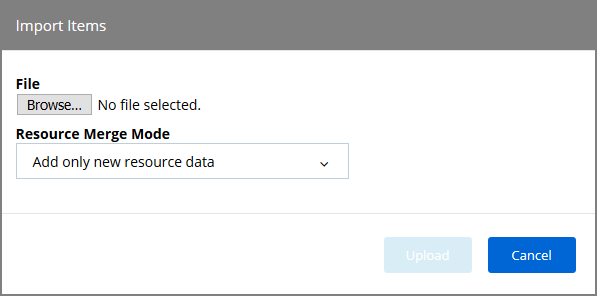
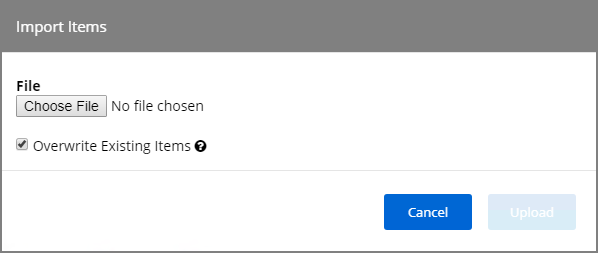
#147122: updated the image for the import items modal (overwrite checkbox) and adjusted instructions accordingly

diff --git a/how-to/export-import.md b/how-to/export-import.md
@@ -96,15 +96,14 @@ To import items via file upload follow these steps:
    ![Upload Item File link](images/import/link.png)
 1. The __Import Items__ dialog opens, browse to your file location and select the file containing the data to import.
 
-   ![Import Items dialog box](images/import/modal.png) <!-- TODO: new screen once drop-down options are corrected -->
+   ![Import Items dialog box](images/import/modal.png) 
 
    Supported file types for the import are .xslt, .xbl, .xsl, .xml, and .zip.
-1. From the __Merge Mode__ drop-down list, select the merge mode for your data.
 
-   ![Merge Mode drop-down](images/import/modal-select.png) <!-- TODO: new screen once drop-down options are corrected -->
+   By default the __Overwrite Existing Items__ checkbox is selected. If you want to skip items that already exist, un-check the box.
 1. Click the __Upload__ button.
 
-You can verify the uploaded data by navigating to __Admin | More__ and selecting __Folders__. Depending on your import, the data is listed under Policies, tasks, or Resource Filters.
+You can verify the uploaded data by navigating to __Admin | More__ and selecting __Folders__. Depending on your import, the data is listed under Policies, Tasks, or Resource Filters.
 
 <!-- Removed functionality - keeping text here if we ever revive the idea
 ### Using the Folders Tree
